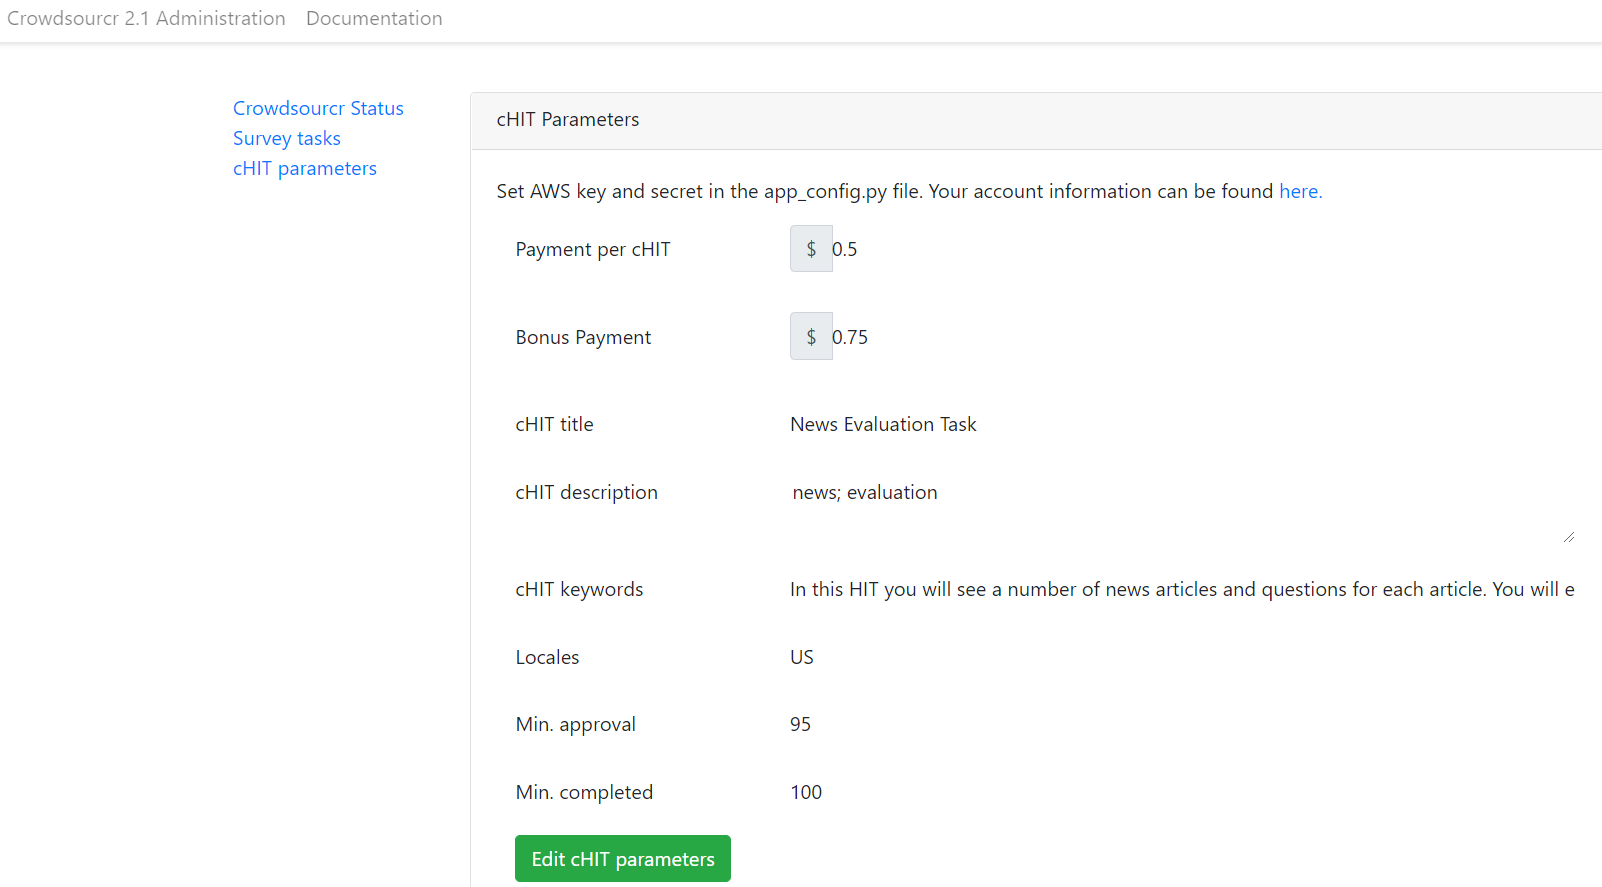
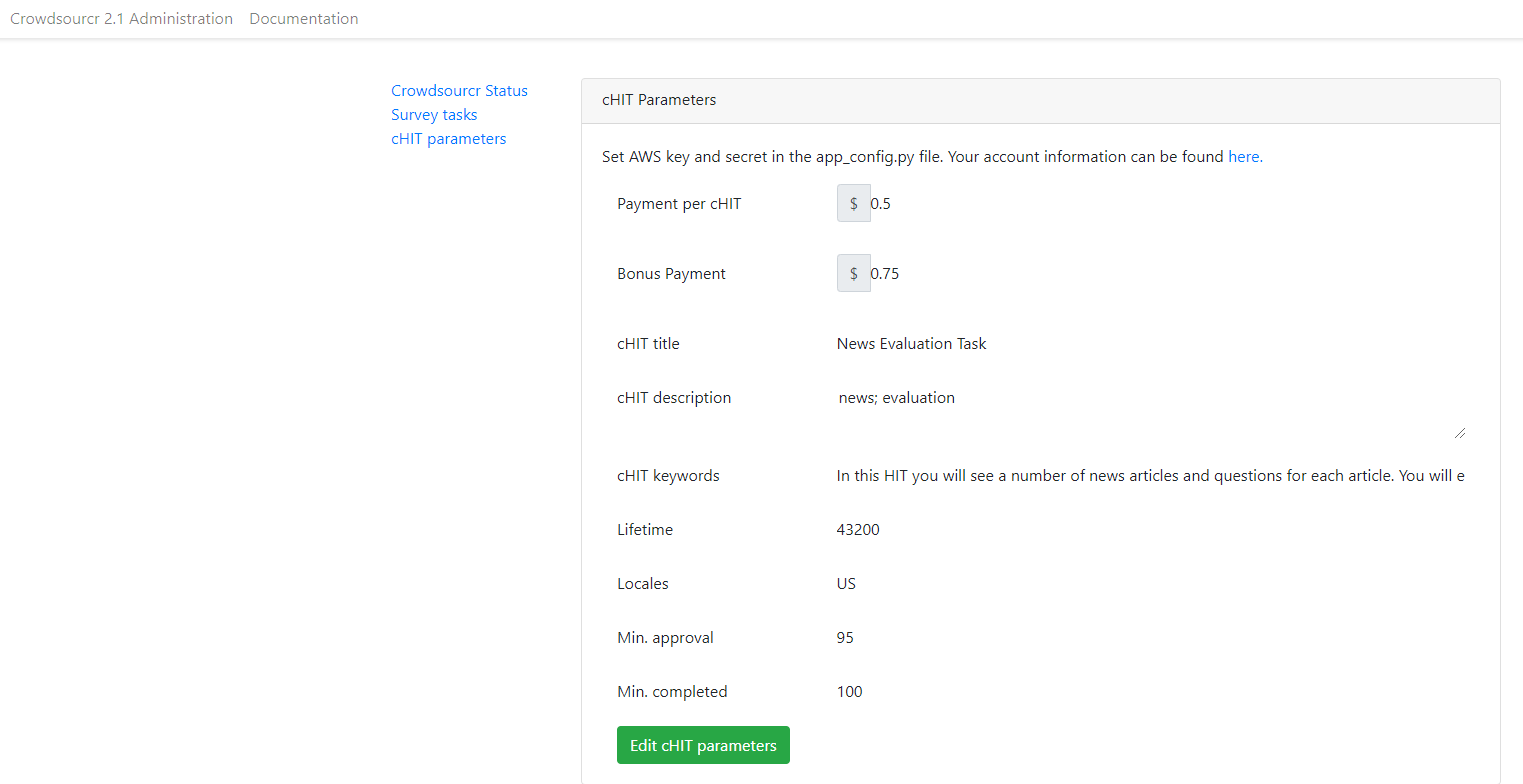
added lifetime

diff --git a/doc/searchindex.js b/doc/searchindex.js
@@ -1,1 +1,1 @@
-Search.setIndex({docnames:["index","usage/admin","usage/concepts","usage/installation","usage/running","usage/xmlformat"],envversion:{"sphinx.domains.c":1,"sphinx.domains.changeset":1,"sphinx.domains.citation":1,"sphinx.domains.cpp":1,"sphinx.domains.javascript":1,"sphinx.domains.math":2,"sphinx.domains.python":1,"sphinx.domains.rst":1,"sphinx.domains.std":1,sphinx:56},filenames:["index.rst","usage\\admin.rst","usage\\concepts.rst","usage\\installation.rst","usage\\running.rst","usage\\xmlformat.rst"],objects:{},objnames:{},objtypes:{},terms:{"16mb":5,"30m":3,"8fbc8f":5,"boolean":5,"case":[1,5],"default":[1,3,4,5],"function":5,"import":1,"long":5,"new":[0,1,3,5],"public":3,"static":3,"switch":5,"true":4,"var":5,"while":[1,3,5],AND:5,AWS:[3,4],Are:5,For:[2,3,5],One:5,The:[0,1,2,3,4,5],Then:3,There:[2,3,4,5],These:1,Yes:5,_raw:5,abl:[1,3],about:[1,3,5],abov:[4,5],accept:[1,2,4,5],access:[1,3],accomplish:[1,5],accord:5,account:[1,3],across:3,actual:[1,5],add:[1,3,5],add_head:3,added:[1,5],adding:5,admin:[0,2,3,5],administ:[1,3],administr:[0,3,5],advertis:1,after:[1,2,3,4,5],again:1,age:5,agre:5,agreement:[0,5],all:[1,4,5],allow:[0,1,5],along:5,alreadi:[2,3,4],also:[0,1,2,3,4,5],alwai:1,amazon:[0,1,2,3,5],among:1,amount:[1,3,5],ani:[1,5],anim:5,anna:0,anoth:1,answer:[1,5],anyon:1,app:[3,4],app_config:1,appear:[1,2],appli:5,applic:[0,1,2,3],appropri:3,approv:1,apt:3,area:1,arithmet:5,articl:[0,5],article_type_categori:5,article_type_oth:5,ask:[0,1,5],assign:[1,2,5],associ:[2,5],assum:3,authent:[1,3,4],author:3,automat:[1,5],avail:[3,5],awar:4,award:[1,5],background:[4,5],badli:5,balanc:[3,4],base64:5,base:[0,1],basi:5,basic:[4,5],bat:[3,4],batch:0,bear:5,becaus:[1,5],becom:5,been:[1,2,5],befor:[1,2],begin:1,behavior:4,being:[1,2,4],below:[1,3,5],benefit:4,best:5,better:5,between:[1,2,5],bia:5,bias:5,biden:5,biggerthan:5,bin:3,bold:1,bonu:[0,1,2],bonus:[0,1,2,5],bonuspoint:5,bool:4,boostrap:3,bore:5,both:[1,3,4],boto3:3,bottom:1,box:5,bracket:5,briefli:3,bundl:0,button:[1,3,5],cach:3,calcul:1,call:[2,3,4,5],can:[0,1,2,3,4,5],candid:5,cannot:3,car:5,carefulli:3,categori:5,cdata:5,certain:1,chang:5,charact:5,charset:3,check:[1,3,5],chit:[0,2],choos:3,classnam:5,clear:[1,4],click:[1,2,3,5],client:3,client_max_body_s:3,code:5,collect:[2,5],colon:5,color:5,color_coding_test:5,com:3,comma:1,command:[3,4],comment:5,compar:5,comparison:5,compil:3,complet:[1,2,3,5],complex_modul:5,comput:[1,3],concaten:5,concept:0,conclus:5,condit:0,conduct:0,conf:3,config:[1,3,4],config_exampl:3,config_filenam:4,confignam:3,configur:[0,1,2,4],confus:[2,5],confusingli:2,conjunct:0,consent:3,conserv:5,consid:5,consist:5,consol:3,contain:[1,2,4,5],content:3,contentupd:5,context:[2,5],contribut:0,control:3,cooki:5,copi:3,correct:[3,5],correspond:[1,2,5],could:5,countri:1,coupl:5,creat:3,create_document:3,credenti:[1,3],crolei:0,crowdsourcr:[1,2,3,4,5],crowdsourcr_a:3,currenc:5,current:1,daemon:[0,3],daemon_nam:4,daemons_config:[3,4],data:[0,1,3,4],databas:[1,3,4,5],defin:[0,1,2,5],definit:5,delimit:1,demograph:5,depend:5,describ:[1,3,4,5],descript:[1,4],design:[0,4],detail:[1,3],determin:[1,5],dev:3,develop:[1,3,4],differ:[4,5],difficult:5,direct:[1,2,3],directori:[3,4],disabl:1,displai:5,distinct:3,divid:[2,5],divis:2,doc:3,doc_sphinx:3,document:[1,3,5],doe:[1,3,5],dollar:5,domain:[1,3],don:5,done:2,dong:0,doubl:5,download:[1,3],drop:[1,4],due:5,dure:[1,3],each:[1,2,3,4,5],earn:1,easili:3,edit:1,editori:5,either:[3,4,5],elabor:3,element:5,eligilbl:5,elizabeth:5,elizabethwarren:5,els:[2,5],emphas:2,empti:5,enabl:[1,3],encapsul:5,encod:5,end:1,engin:3,ensur:5,enter:[1,2,3,5],entri:[0,1,2,3,5],environ:[3,4],equal:5,error:5,especi:0,etc:3,evalu:0,even:[1,5],event:1,everi:5,exactli:[1,5],exampl:[0,3,4,5],exce:5,except:[1,5],excludedemograph:5,exclus:2,experi:[0,1,5],expir:[1,3],extern:5,fals:4,fashion:5,few:[4,5],file:[0,1,3,5],filenam:[3,4],filesystem:4,fill:5,find:1,finish:5,firewal:3,first:[1,3,5],folder:5,follow:[0,1,2,3,5],forc:2,form:1,format:[0,1],from:[0,1,2,3],fstring:3,full:5,fuss:4,futur:[3,5],gave:5,gener:5,get:[1,3],getattribut:5,getelementsbytagnam:5,git:3,github:3,given:[1,4],goe:1,going:[2,3],good:5,googl:[0,1,4],greater:5,green:[1,5],grondahl:0,group:2,guess:5,guid:3,had:5,happen:[1,2],hard:5,hard_law:5,hard_science_bor:5,hard_science_difficult:5,hard_science_interest:5,has:[1,2,3,5],hash:5,have:[1,2,3,4,5],header:5,help:[3,5],helptext:5,her:[2,5],here:[1,3],herself:5,hid:5,hierarch:5,highlabel:5,highlight:5,hit:[0,1,2,5],hitid:5,hold:[2,5],home:3,hopefulli:2,horizont:5,host:3,how:[1,5],howev:5,html:[2,3,5],http:[1,3,5],http_host:3,human:2,ident:[1,5],ifram:2,ignor:5,imag:3,imagehash:3,imageupload:5,img:5,immedi:4,impli:5,improv:5,includ:[3,4,5],increas:1,inde:1,index:0,indic:5,inequ:5,influenc:5,info:1,inform:[1,3,4],inset:5,insid:1,instal:[0,1,4],instanc:[4,5],instead:3,instruct:[1,3,5],integ:[1,5],integr:3,intellig:2,interest:5,interfac:[1,2,5],intern:5,internal_variable_nam:5,invok:[3,4],iso:1,ital:1,its:4,itself:[3,4],javascript:5,job:[1,3],joe:5,joebiden:5,json:[1,3,4],jsonpickl:3,just:[1,2,3,5],kei:[1,3,4],keyword:1,kid:5,kill:4,kind:5,kmill:3,known:2,kyle:0,label:[2,5],later:2,law:5,layout:5,least:[2,3,5],left:[2,5],less:5,let:[1,3,5],letter:5,letterc:5,level:[0,5],level_categori:5,liber:5,librari:3,like:[0,1,2,3,5],lilia:5,linear:5,ling:0,link:[1,2,5],linux:[0,4],list:[1,2,3,4,5],listen:3,liter:4,load:[1,3,4,5],local:[1,3],localhost:3,locat:[3,5],log:4,login:[2,3],longer:4,look:[1,5],lowlabel:5,machin:3,made:5,mai:[1,3,4,5],main:[1,5],make:[1,3,4,5],manag:[1,4],mani:[1,2,5],manual:3,mark:3,marku:0,marri:5,master:3,matter:3,max:3,maxim:5,maximum:1,mean:[1,3],mechan:[0,1,2],member:5,mention:5,metaphor:5,might:3,miller:0,mime:3,minim:3,minimum:1,miss:3,mobiu:0,modal:1,mode:[1,3],model:2,modifi:[1,3],modul:[0,2],module_nam:5,mongo:3,mongod:3,mongodb:3,more:[2,3,4,5],most:5,mturk:[1,2,3],much:2,multipl:[0,2,3,4,5],multipli:1,must:1,my_config_filenam:3,my_imag:5,my_other_domain:5,name:[3,5],namemark:5,need:[3,4,5],neg:1,never:5,news_crowdsourcr:3,next:[2,3],nginx:[3,4],non:[1,5],normal:1,note:[1,3,4,5],noth:5,notinset:5,number:[1,2,4,5],ny_logo_raw:5,nyt_logo:5,nytlogo:5,oauth2:3,oauth:3,obtain:3,off:3,often:5,onc:[1,2,3],one:[0,1,2,3,4,5],ongo:1,onli:[1,3,4,5],onlin:[0,1],onto:[1,2],open:[1,3],oper:[1,4,5],optim:3,option:[1,3,4,5],orang:1,order:[3,5],org:3,other:[0,1,4,5],otherwis:5,our:5,out:[1,5],output:1,outsidecategori:5,overal:5,overlap:4,overload:2,overview:1,packag:3,page:[0,1,5],pai:[1,2,5],paid:1,pair:2,panda:3,panel:[0,5],parallel:3,paramet:1,parser:5,part:[2,5],partial:1,particular:[1,5],pass:3,path:5,payment:[4,5],per:5,percent:1,percept:5,perform:5,persist:1,pip:3,place:3,pleas:5,png:5,point:[1,3,5],polit:5,popul:1,popup:1,port:[3,4],portnum:4,possibl:[1,3,5],post:[0,1,3],potenti:5,present:5,prevent:2,previous:5,print:4,prior:1,process:[3,4],produc:5,product:[1,3,4],program:[3,4],programmat:0,progress:1,project:[3,4],prompt:[3,4],promt:3,properti:5,proport:5,provid:[1,3,4,5],proxi:3,proxy_buff:3,proxy_connect_timeout:3,proxy_pass:3,proxy_pass_head:3,proxy_read_timeout:3,proxy_redirect:3,proxy_send_timeout:3,proxy_set_head:3,publish:[1,2],purpos:2,put:3,pycountri:3,pymongo:3,python3:[3,4],python:[3,4],question:[0,1,2],questiontext:5,quit:4,radio:5,rather:3,raw:5,real:[0,3],reallyr:4,receiv:[1,5],recommend:3,record:[1,5],red:1,redirect:[1,3],refer:[2,5],refresh:1,relat:2,releas:1,reli:5,reload:3,remote_addr:3,render:5,replac:3,request:2,requir:[3,5],reserv:1,respect:1,respons:[1,4,5],rest:3,restart:4,result:1,reward:[1,2,5],rhythm:5,rich:5,right:[2,5],root:[3,4],rst:3,run:[0,1,3,5],runtim:5,rythm:5,sai:3,sam:0,same:[1,2,3,4,5],sampl:5,sandbox:3,satisfi:5,scheme:3,schmidt:0,scienc:5,screen:[2,3,4,5],screenshot:5,script:[4,5],search:0,second:5,secret:[1,3,4],section:[1,2,3,4,5],see:[1,2,3,4,5],select:[1,3],semi:5,send_timeout:3,separ:5,sequenc:2,serv:3,server:3,server_nam:3,servic:3,session:[1,4],set:[0,3,4,5],sever:[3,5],share:[1,5],she:[2,5],should:[1,3,4,5],show:[1,5],shown:[1,2,5],similar:[1,3,5],simpl:5,simple_question_conditional_hit:5,simpli:3,simplifi:5,sinc:5,singl:2,site:3,slash:3,smart:5,soft:5,some:[4,5],some_value_typ:5,someon:1,someth:[1,2],span:5,special:5,specif:[1,5],specifi:3,speed:3,spell:5,spelling_oth:5,sphinx:3,src:[3,4,5],stale:1,stand:5,start:[3,4],start_a:[3,4],startup:3,stop:[3,4],store:[4,5],strenght:5,string:[4,5],structur:[2,5],style:[1,5],sub:5,subdivis:1,submit:5,sudo:3,suffici:3,suffix:5,sum10:5,sum15:5,sum:5,summar:4,summat:5,superadmin:[0,3],support:3,sure:[1,3,4,5],survei:[0,3,5],syntax:5,system:1,tab:5,tabi:1,tag:5,take:[1,5],talli:5,task:[0,1,2],task_id:5,taskcondit:5,taskid:5,teddi:5,tell:1,tend:2,test:3,text:1,textual:5,than:[3,5],thei:[1,2],them:1,theme:3,thi:[1,2,3,4,5],thing:3,though:1,thought:5,three:[1,5],threshold:5,through:5,time:1,titl:1,tobia:0,too:2,tornado:[3,4],total:1,trail:3,translat:5,tree:5,tripl:5,turk:[0,1,2,3,5],turker:[0,5],tutori:3,two:[1,2,3,4,5],txt:3,type:[2,3,5],ubuntu:3,uft:3,uncomplet:1,under:[3,4,5],understand:5,unexpect:4,unless:1,unsur:5,unzip:3,updat:1,upload:1,upon:[1,3],upstream:3,uri:3,url:1,usag:3,use:[1,3,4,5],used:[0,2,5],useful:[3,4],user:[2,5],uses:[3,5],using:[1,3,5],valid:[1,3,5],valu:5,valuetyp:5,variabl:5,variou:2,varnam:5,veri:5,version:3,view:[1,5],visibl:5,visit:1,wai:[1,4],want:[1,3,5],warren:5,weak:5,weakli:5,web:3,websit:3,well:[1,2],were:[1,5],what:[1,3,5],when:[0,1,4,5],whenev:1,where:[1,2,3,4,5],whether:[1,5],which:[1,2,3,4,5],who:[1,2,5],whose:5,window:0,within:5,won:2,word:2,work:[1,3,4],worker:[0,1,2,5],workerid:5,wors:1,would:[1,5],write:1,www:3,xml:[0,1],xmltodict:3,year:5,yellow:5,yes:5,yet:2,you:[1,3,5],your:[1,2,3,5],your_port:3,yourself:[1,5],zero:1,zip:3},titles:["Welcome to Crowdsourcr!","Administration","Concepts","Installation","Running","XML Format"],titleterms:{admin:1,administr:1,batch:4,bonu:5,calcul:5,categor:5,chit:[1,5],concept:2,condit:5,configur:3,content:5,crowdsourcr:0,daemon:4,data:5,download:5,dynam:5,file:4,format:5,googl:3,imag:5,indic:0,instal:3,linux:3,modul:5,nest:5,numer:5,panel:1,question:5,run:4,scale:5,scheme:5,specifi:5,statu:1,superadmin:1,survei:1,tab:1,tabl:0,task:5,text:5,upload:5,welcom:0,window:[3,4],xml:5}})
+Search.setIndex({docnames:["index","usage/admin","usage/concepts","usage/installation","usage/running","usage/xmlformat"],envversion:{"sphinx.domains.c":1,"sphinx.domains.changeset":1,"sphinx.domains.citation":1,"sphinx.domains.cpp":1,"sphinx.domains.javascript":1,"sphinx.domains.math":2,"sphinx.domains.python":1,"sphinx.domains.rst":1,"sphinx.domains.std":1,sphinx:56},filenames:["index.rst","usage\\admin.rst","usage\\concepts.rst","usage\\installation.rst","usage\\running.rst","usage\\xmlformat.rst"],objects:{},objnames:{},objtypes:{},terms:{"16mb":5,"30m":3,"8fbc8f":5,"boolean":5,"case":[1,5],"default":[1,3,4,5],"function":5,"import":1,"long":5,"new":[0,1,3,5],"public":3,"static":3,"switch":5,"true":4,"var":5,"while":[1,3,5],AND:5,AWS:[3,4],Are:5,For:[2,3,5],One:5,The:[0,1,2,3,4,5],Then:3,There:[2,3,4,5],These:1,Yes:5,_raw:5,abl:[1,3],about:[1,3,5],abov:[4,5],accept:[1,2,4,5],access:[1,3],accomplish:[1,5],accord:5,account:[1,3],across:3,actual:[1,5],add:[1,3,5],add_head:3,added:[1,5],adding:5,admin:[0,2,3,5],administ:[1,3],administr:[0,3,5],advertis:1,after:[1,2,3,4,5],again:1,age:5,agre:5,agreement:[0,5],all:[1,4,5],allow:[0,1,5],along:5,alreadi:[2,3,4],also:[0,1,2,3,4,5],alwai:1,amazon:[0,1,2,3,5],among:1,amount:[1,3,5],ani:[1,5],anim:5,anna:0,anoth:1,answer:[1,5],anyon:1,app:[3,4],app_config:1,appear:[1,2],appli:5,applic:[0,1,2,3],appropri:3,approv:1,apt:3,area:1,arithmet:5,articl:[0,5],article_type_categori:5,article_type_oth:5,ask:[0,1,5],assign:[1,2,5],associ:[2,5],assum:3,authent:[1,3,4],author:3,automat:[1,5],avail:[3,5],awar:4,award:[1,5],background:[4,5],badli:5,balanc:[3,4],base64:5,base:[0,1],basi:5,basic:[4,5],bat:[3,4],batch:0,bear:5,becaus:[1,5],becom:5,been:[1,2,5],befor:[1,2],begin:1,behavior:4,being:[1,2,4],below:[1,3,5],benefit:4,best:5,better:5,between:[1,2,5],bia:5,bias:5,biden:5,biggerthan:5,bin:3,bold:1,bonu:[0,1,2],bonus:[0,1,2,5],bonuspoint:5,bool:4,boostrap:3,bore:5,both:[1,3,4],boto3:3,bottom:1,box:5,bracket:5,briefli:3,bundl:0,button:[1,3,5],cach:3,calcul:1,call:[2,3,4,5],can:[0,1,2,3,4,5],candid:5,cannot:3,car:5,carefulli:3,categori:5,cdata:5,certain:1,chang:5,charact:5,charset:3,check:[1,3,5],chit:[0,2],choos:3,classnam:5,clear:[1,4],click:[1,2,3,5],client:3,client_max_body_s:3,code:5,collect:[2,5],colon:5,color:5,color_coding_test:5,com:3,comma:1,command:[3,4],comment:5,compar:5,comparison:5,compil:3,complet:[1,2,3,5],complex_modul:5,comput:[1,3],concaten:5,concept:0,conclus:5,condit:0,conduct:0,conf:3,config:[1,3,4],config_exampl:3,config_filenam:4,confignam:3,configur:[0,1,2,4],confus:[2,5],confusingli:2,conjunct:0,consent:3,conserv:5,consid:5,consist:5,consol:3,contain:[1,2,4,5],content:3,contentupd:5,context:[2,5],contribut:0,control:3,cooki:5,copi:3,correct:[3,5],correspond:[1,2,5],could:5,countri:1,coupl:5,creat:3,create_document:3,credenti:[1,3],crolei:0,crowdsourcr:[1,2,3,4,5],crowdsourcr_a:3,currenc:5,current:1,daemon:[0,3],daemon_nam:4,daemons_config:[3,4],data:[0,1,3,4],databas:[1,3,4,5],defin:[0,1,2,5],definit:5,delimit:1,demograph:5,depend:5,describ:[1,3,4,5],descript:[1,4],design:[0,4],detail:[1,3],determin:[1,5],dev:3,develop:[1,3,4],differ:[4,5],difficult:5,direct:[1,2,3],directori:[3,4],disabl:1,displai:5,distinct:3,divid:[2,5],divis:2,doc:3,doc_sphinx:3,document:[1,3,5],doe:[1,3,5],dollar:5,domain:[1,3],don:5,done:2,dong:0,doubl:5,download:[1,3],drop:[1,4],due:5,dure:[1,3],each:[1,2,3,4,5],earn:1,easili:3,edit:1,editori:5,either:[3,4,5],elabor:3,element:5,eligilbl:5,elizabeth:5,elizabethwarren:5,els:[2,5],emphas:2,empti:5,enabl:[1,3],encapsul:5,encod:5,end:1,engin:3,ensur:5,enter:[1,2,3,5],entri:[0,1,2,3,5],environ:[3,4],equal:5,error:5,especi:0,etc:3,evalu:0,even:[1,5],event:1,everi:5,exactli:[1,5],exampl:[0,3,4,5],exce:5,except:[1,5],excludedemograph:5,exclus:2,experi:[0,1,5],expir:[1,3],extern:5,fals:4,fashion:5,few:[4,5],file:[0,1,3,5],filenam:[3,4],filesystem:4,fill:5,find:1,finish:5,firewal:3,first:[1,3,5],folder:5,follow:[0,1,2,3,5],forc:2,form:1,format:[0,1],from:[0,1,2,3],fstring:3,full:5,fuss:4,futur:[3,5],gave:5,gener:5,get:[1,3],getattribut:5,getelementsbytagnam:5,git:3,github:3,given:[1,4],goe:1,going:[2,3],good:5,googl:[0,1,4],greater:5,green:[1,5],grondahl:0,group:2,guess:5,guid:3,had:5,happen:[1,2],hard:5,hard_law:5,hard_science_bor:5,hard_science_difficult:5,hard_science_interest:5,has:[1,2,3,5],hash:5,have:[1,2,3,4,5],header:5,help:[3,5],helptext:5,her:[2,5],here:[1,3],herself:5,hid:5,hierarch:5,highlabel:5,highlight:5,hit:[0,1,2,5],hitid:5,hold:[2,5],home:3,hopefulli:2,horizont:5,host:3,how:[1,5],howev:5,html:[2,3,5],http:[1,3,5],http_host:3,human:2,ident:[1,5],ifram:2,ignor:5,imag:3,imagehash:3,imageupload:5,img:5,immedi:4,impli:5,improv:5,includ:[3,4,5],increas:1,inde:1,index:0,indic:5,inequ:5,influenc:5,info:1,inform:[1,3,4],inset:5,insid:1,instal:[0,1,4],instanc:[4,5],instead:3,instruct:[1,3,5],integ:[1,5],integr:3,intellig:2,interest:5,interfac:[1,2,5],intern:5,internal_variable_nam:5,invok:[3,4],iso:1,ital:1,its:4,itself:[3,4],javascript:5,job:[1,3],joe:5,joebiden:5,json:[1,3,4],jsonpickl:3,just:[1,2,3,5],kei:[1,3,4],keyword:1,kid:5,kill:4,kind:5,kmill:3,known:2,kyle:0,label:[2,5],later:2,law:5,layout:5,least:[2,3,5],left:[2,5],less:5,let:[1,3,5],letter:5,letterc:5,level:[0,5],level_categori:5,liber:5,librari:3,lifetim:1,like:[0,1,2,3,5],lilia:5,linear:5,ling:0,link:[1,2,5],linux:[0,4],list:[1,2,3,4,5],listen:3,liter:4,load:[1,3,4,5],local:[1,3],localhost:3,locat:[3,5],log:4,login:[2,3],longer:4,look:[1,5],lowlabel:5,machin:3,made:5,mai:[1,3,4,5],main:[1,5],make:[1,3,4,5],manag:[1,4],mani:[1,2,5],manual:3,mark:3,marku:0,marri:5,master:3,matter:3,max:3,maxim:5,maximum:1,mean:[1,3],mechan:[0,1,2],member:5,mention:5,metaphor:5,might:3,miller:0,mime:3,minim:3,minimum:1,miss:3,mobiu:0,modal:1,mode:[1,3],model:2,modifi:[1,3],modul:[0,2],module_nam:5,mongo:3,mongod:3,mongodb:3,more:[2,3,4,5],most:5,mturk:[1,2,3],much:2,multipl:[0,2,3,4,5],multipli:1,must:1,my_config_filenam:3,my_imag:5,my_other_domain:5,name:[3,5],namemark:5,need:[3,4,5],neg:1,never:5,news_crowdsourcr:3,next:[2,3],nginx:[3,4],non:[1,5],normal:1,note:[1,3,4,5],noth:5,notinset:5,number:[1,2,4,5],ny_logo_raw:5,nyt_logo:5,nytlogo:5,oauth2:3,oauth:3,obtain:3,off:3,often:5,onc:[1,2,3],one:[0,1,2,3,4,5],ongo:1,onli:[1,3,4,5],onlin:[0,1],onto:[1,2],open:[1,3],oper:[1,4,5],optim:3,option:[1,3,4,5],orang:1,order:[3,5],org:3,other:[0,1,4,5],otherwis:5,our:5,out:[1,5],output:1,outsidecategori:5,overal:5,overlap:4,overload:2,overview:1,packag:3,page:[0,1,5],pai:[1,2,5],paid:1,pair:2,panda:3,panel:[0,5],parallel:3,paramet:1,parser:5,part:[2,5],partial:1,particular:[1,5],pass:3,path:5,payment:[4,5],per:5,percent:1,percept:5,perform:5,persist:1,pip:3,place:3,pleas:5,png:5,point:[1,3,5],polit:5,popul:1,popup:1,port:[3,4],portnum:4,possibl:[1,3,5],post:[0,1,3],potenti:5,present:5,prevent:2,previous:5,print:4,prior:1,process:[3,4],produc:5,product:[1,3,4],program:[3,4],programmat:0,progress:1,project:[3,4],prompt:[3,4],promt:3,properti:5,proport:5,provid:[1,3,4,5],proxi:3,proxy_buff:3,proxy_connect_timeout:3,proxy_pass:3,proxy_pass_head:3,proxy_read_timeout:3,proxy_redirect:3,proxy_send_timeout:3,proxy_set_head:3,publish:[1,2],purpos:2,put:3,pycountri:3,pymongo:3,python3:[3,4],python:[3,4],question:[0,1,2],questiontext:5,quit:4,radio:5,rather:3,raw:5,real:[0,3],reallyr:4,receiv:[1,5],recommend:3,record:[1,5],red:1,redirect:[1,3],refer:[2,5],refresh:1,relat:2,releas:1,reli:5,reload:3,remote_addr:3,render:5,replac:3,request:2,requir:[3,5],reserv:1,respect:1,respons:[1,4,5],rest:3,restart:4,result:1,reward:[1,2,5],rhythm:5,rich:5,right:[2,5],root:[3,4],rst:3,run:[0,1,3,5],runtim:5,rythm:5,sai:3,sam:0,same:[1,2,3,4,5],sampl:5,sandbox:3,satisfi:5,scheme:3,schmidt:0,scienc:5,screen:[2,3,4,5],screenshot:5,script:[4,5],search:0,second:5,secret:[1,3,4],section:[1,2,3,4,5],see:[1,2,3,4,5],select:[1,3],semi:5,send_timeout:3,separ:5,sequenc:2,serv:3,server:3,server_nam:3,servic:3,session:[1,4],set:[0,3,4,5],sever:[3,5],share:[1,5],she:[2,5],should:[1,3,4,5],show:[1,5],shown:[1,2,5],similar:[1,3,5],simpl:5,simple_question_conditional_hit:5,simpli:3,simplifi:5,sinc:5,singl:2,site:3,slash:3,smart:5,soft:5,some:[4,5],some_value_typ:5,someon:1,someth:[1,2],span:5,special:5,specif:[1,5],specifi:3,speed:3,spell:5,spelling_oth:5,sphinx:3,src:[3,4,5],stale:1,stand:5,start:[3,4],start_a:[3,4],startup:3,stop:[3,4],store:[4,5],strenght:5,string:[4,5],structur:[2,5],style:[1,5],sub:5,subdivis:1,submit:5,sudo:3,suffici:3,suffix:5,sum10:5,sum15:5,sum:5,summar:4,summat:5,superadmin:[0,3],support:3,sure:[1,3,4,5],survei:[0,3,5],syntax:5,system:1,tab:5,tabi:1,tag:5,take:[1,5],talli:5,task:[0,1,2],task_id:5,taskcondit:5,taskid:5,teddi:5,tell:1,tend:2,test:3,text:1,textual:5,than:[3,5],thei:[1,2],them:1,theme:3,thi:[1,2,3,4,5],thing:3,though:1,thought:5,three:[1,5],threshold:5,through:5,time:1,titl:1,tobia:0,too:2,tornado:[3,4],total:1,trail:3,translat:5,tree:5,tripl:5,turk:[0,1,2,3,5],turker:[0,5],tutori:3,two:[1,2,3,4,5],txt:3,type:[2,3,5],ubuntu:3,uft:3,uncomplet:1,under:[3,4,5],understand:5,unexpect:4,unless:1,unsur:5,unzip:3,updat:1,upload:1,upon:[1,3],upstream:3,uri:3,url:1,usag:3,use:[1,3,4,5],used:[0,2,5],useful:[3,4],user:[2,5],uses:[3,5],using:[1,3,5],valid:[1,3,5],valu:5,valuetyp:5,variabl:5,variou:2,varnam:5,veri:5,version:3,view:[1,5],visibl:5,visit:1,wai:[1,4],want:[1,3,5],warren:5,weak:5,weakli:5,web:3,websit:3,well:[1,2],were:[1,5],what:[1,3,5],when:[0,1,4,5],whenev:1,where:[1,2,3,4,5],whether:[1,5],which:[1,2,3,4,5],who:[1,2,5],whose:5,window:0,within:5,won:2,word:2,work:[1,3,4],worker:[0,1,2,5],workerid:5,wors:1,would:[1,5],write:1,www:3,xml:[0,1],xmltodict:3,year:5,yellow:5,yes:5,yet:2,you:[1,3,5],your:[1,2,3,5],your_port:3,yourself:[1,5],zero:1,zip:3},titles:["Welcome to Crowdsourcr!","Administration","Concepts","Installation","Running","XML Format"],titleterms:{admin:1,administr:1,batch:4,bonu:5,calcul:5,categor:5,chit:[1,5],concept:2,condit:5,configur:3,content:5,crowdsourcr:0,daemon:4,data:5,download:5,dynam:5,file:4,format:5,googl:3,imag:5,indic:0,instal:3,linux:3,modul:5,nest:5,numer:5,panel:1,question:5,run:4,scale:5,scheme:5,specifi:5,statu:1,superadmin:1,survei:1,tab:1,tabl:0,task:5,text:5,upload:5,welcom:0,window:[3,4],xml:5}})

diff --git a/doc/usage/admin.html b/doc/usage/admin.html
@@ -278,6 +278,7 @@ modify how a cHIT is advertised as an Amazon Turk HIT. While there is an ongoing
 <li><p>HIT title</p></li>
 <li><p>HIT description</p></li>
 <li><p>HIT keywords</p></li>
+<li><p>Lifetime of HIT</p></li>
 <li><p>worker locale (Comma-delimited list of ISO 3166 countries and/or subdivisions (such as US or US-CA).)</p></li>
 <li><p>workers with minimum percent approved HITs (any integer between 0 and 100)</p></li>
 <li><p>workers with minimum number of completed HITs (any non-negative integer)</p></li>

diff --git a/doc_sphinx/usage/admin.rst b/doc_sphinx/usage/admin.rst
@@ -152,6 +152,7 @@ You can specifically modify the following parameters:
 - HIT title 
 - HIT description
 - HIT keywords
+- Lifetime of HIT
 - worker locale (Comma-delimited list of ISO 3166 countries and/or subdivisions (such as US or US-CA).)
 - workers with minimum percent approved HITs (any integer between 0 and 100)
 - workers with minimum number of completed HITs (any non-negative integer)
